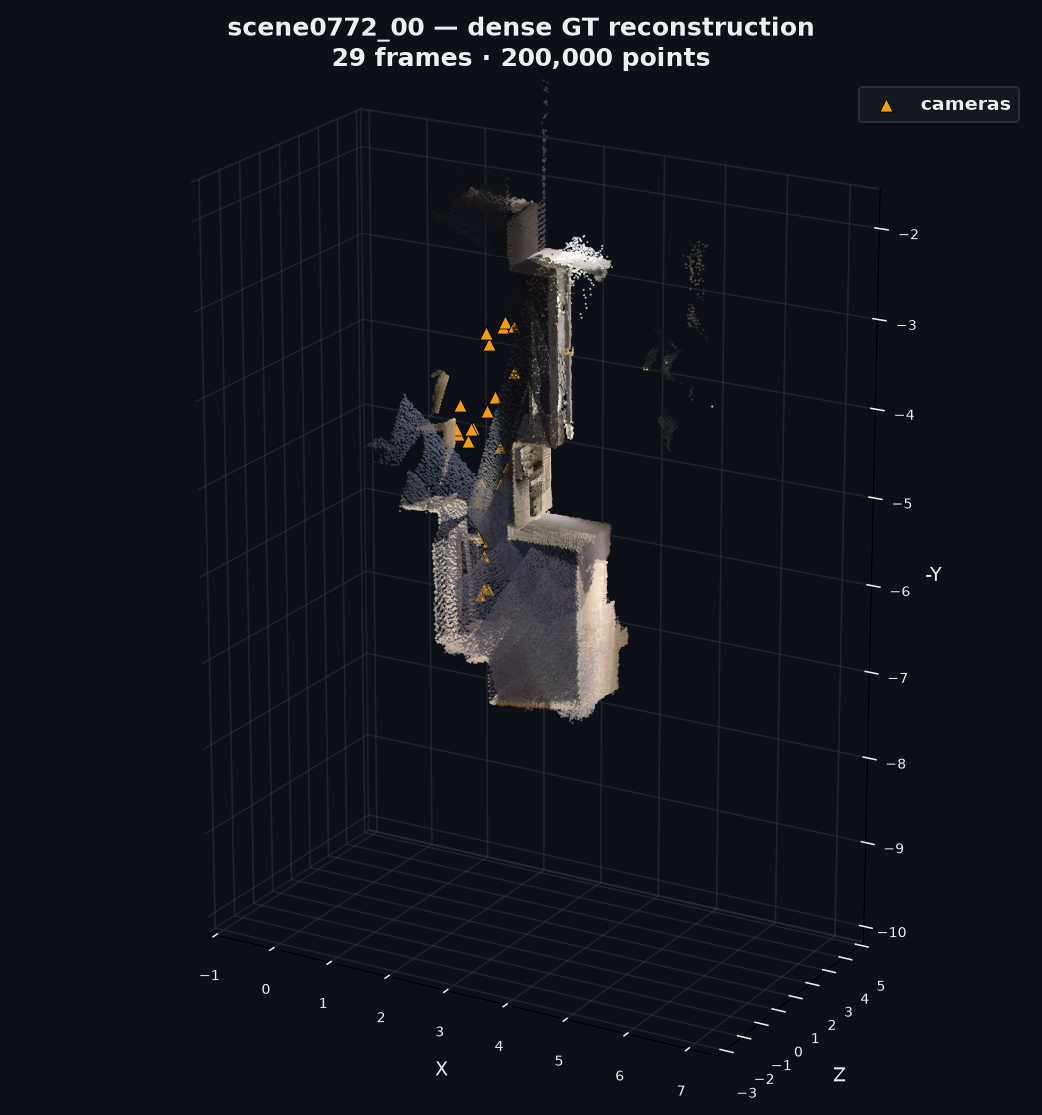
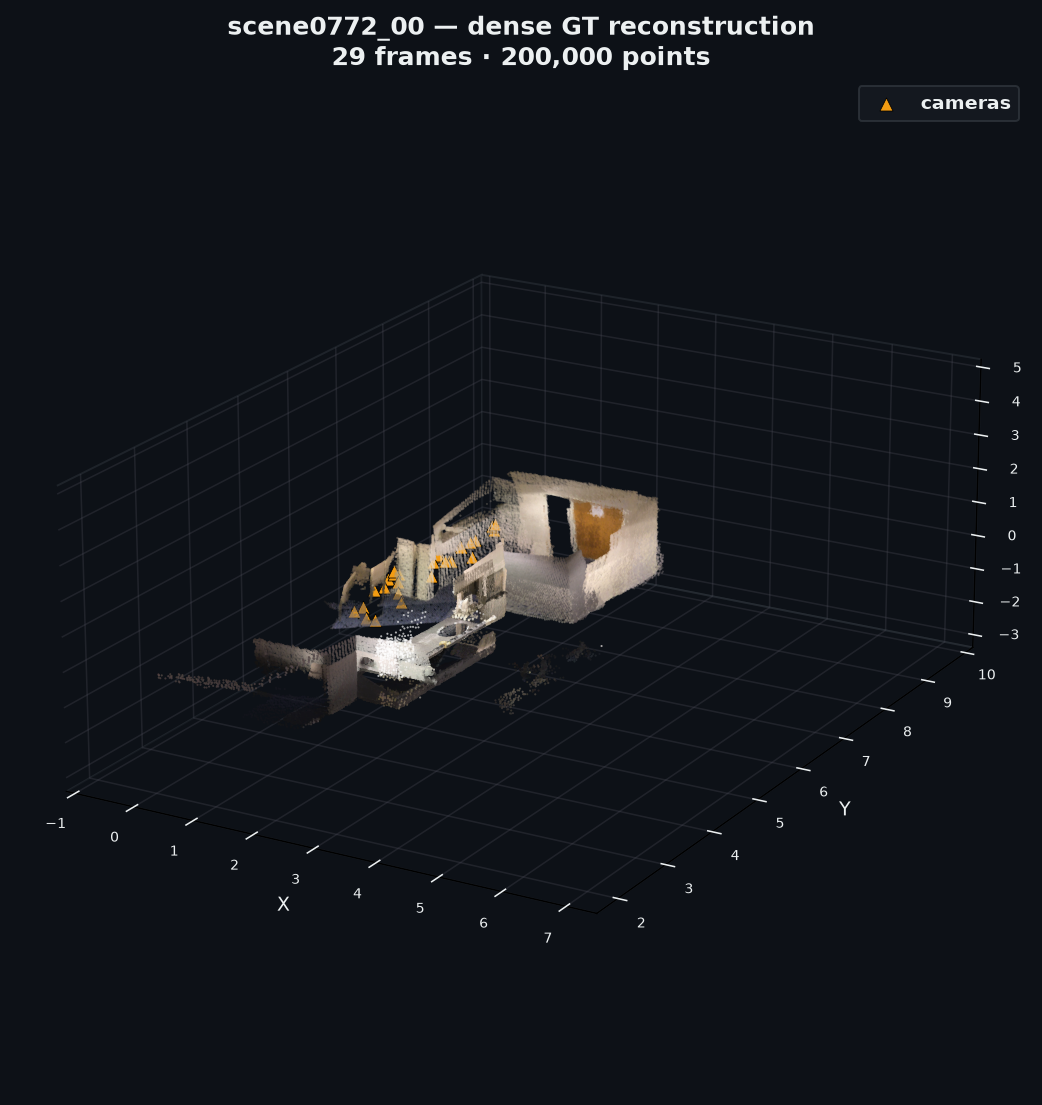
Fix scene-episode context overflow (the Phase-2 rollout blocker)
Long scene episodes (8 image thumbnails + ~40 tool-call turns) exceeded
vLLM's 8192 max_model_len, so every scene rollout failed with 400
"input exceeds context" and earned reward=-0.5.

- Bump phase2_scene.slurm --max-model-len 8192 -> 32768 (Qwen3.5-2B supports
  262k positions; KV headroom on 48GB L40S is fine)
- Add _trim_scene_context + _estimate_context_tokens in scene_episode.py:
  drops the oldest assistant/observation turns once the rolling prompt nears
  SCENE_CONTEXT_BUDGET, keeping system + initial user + recent turns.

34 scene-episode tests still pass.

diff --git a/src/agentic_sfm/rl/scene_episode.py b/src/agentic_sfm/rl/scene_episode.py
@@ -337,7 +337,10 @@ def run_scene_episode(
         if terminated or num_tool_calls >= max_tool_calls:
             break
 
-        # Generate via vLLM
+        # Trim the rolling context to stay under the model's context budget
+        # before generating (long scenes + many tool calls would otherwise
+        # overflow vLLM's max_model_len and the whole episode would fail).
+        _trim_scene_context(ep)
         try:
             response = agent._generate_turn(ep.messages, ep.images)
         except Exception as e:
@@ -428,6 +431,48 @@ def run_scene_episode(
         f"reward={ep.reward:.3f}, registered={ep.recon_result.get('num_registered', 0)}"
     )
     return ep
+
+
+# Conservative context budget for scene rollouts. The model supports ~262k
+# positions but vLLM is launched with a smaller --max-model-len; we keep the
+# rolling conversation well under it so long episodes never hit the 400
+# "input exceeds max context length" errors seen in early Phase-2 runs.
+SCENE_CONTEXT_BUDGET = 24000  # tokens (chars/4 estimate + image cost)
+_IMG_TOKEN_COST = 300         # rough token cost per image/thumbnail
+
+
+def _estimate_context_tokens(messages: list[dict[str, Any]], num_images: int) -> int:
+    """Rough token estimate: ~4 chars/token of text + per-image cost."""
+    chars = 0
+    for m in messages:
+        c = m.get("content")
+        if isinstance(c, str):
+            chars += len(c)
+        elif isinstance(c, list):
+            for part in c:
+                if isinstance(part, dict) and part.get("type") == "text":
+                    chars += len(str(part.get("text", "")))
+    return chars // 4 + num_images * _IMG_TOKEN_COST
+
+
+def _trim_scene_context(ep: Any, max_tokens: int = SCENE_CONTEXT_BUDGET) -> None:
+    """Drop the oldest assistant/observation turns when over the token budget.
+
+    Keeps ``messages[0]`` (system) and ``messages[1]`` (initial user with the
+    scene thumbnails), then retains only the most recent turns so the rolling
+    prompt stays under ``max_tokens``. Mutates ``ep.messages``; also bounds
+    ``ep.images`` to the thumbnail count actually referenced.
+    """
+    num_images = len(getattr(ep, "images", []) or [])
+    if _estimate_context_tokens(ep.messages, num_images) <= max_tokens:
+        return
+    # messages[0]=system, [1]=user+images; tail = [assistant, user-obs] turns.
+    head = ep.messages[:2]
+    tail = ep.messages[2:]
+    # Drop oldest turns until under budget (each tail element is one message).
+    while tail and _estimate_context_tokens(head + tail, num_images) > max_tokens:
+        tail = tail[1:]
+    ep.messages = head + tail
 
 
 def run_scene_oracle_episode(

diff --git a/src/agentic_sfm/eval/viz.py b/src/agentic_sfm/eval/viz.py
@@ -425,13 +425,17 @@ def render_gt_pointcloud(
     ax = fig.add_subplot(111, projection="3d")
     ax.set_facecolor(FIG_BG)
 
+    # ScanNet world frames are Z-up (camera heights ~1.1-1.7 m in Z), so the
+    # axes map straight through: (X, Y, Z) <- (x, y, z) keeps the room
+    # upright — unlike ``render_point_cloud`` which remaps for the
+    # COLMAP/Y-up convention.
     if len(pts):
-        ax.scatter(pts[:, 0], pts[:, 2], -pts[:, 1],
+        ax.scatter(pts[:, 0], pts[:, 1], pts[:, 2],
                    c=np.clip(cols, 0, 1), s=1.2, alpha=0.9,
                    linewidths=0, depthshade=True)
 
     if len(cam_centers):
-        ax.scatter(cam_centers[:, 0], cam_centers[:, 2], -cam_centers[:, 1],
+        ax.scatter(cam_centers[:, 0], cam_centers[:, 1], cam_centers[:, 2],
                    c=C_CAMERA, s=45, marker="^", edgecolors="k",
                    linewidths=0.4, label="cameras", depthshade=False)
 
@@ -445,8 +449,8 @@ def render_gt_pointcloud(
         mid = np.median(pts, axis=0)
         rng = np.ptp(pts, axis=0).max()
         ax.set_xlim(mid[0] - rng * 0.6, mid[0] + rng * 0.6)
-        ax.set_ylim(mid[2] - rng * 0.6, mid[2] + rng * 0.6)
-        ax.set_zlim(-mid[1] - rng * 0.6, -mid[1] + rng * 0.6)
+        ax.set_ylim(mid[1] - rng * 0.6, mid[1] + rng * 0.6)
+        ax.set_zlim(mid[2] - rng * 0.6, mid[2] + rng * 0.6)
     ax.view_init(elev=elev, azim=azim)
 
     for axis in (ax.xaxis, ax.yaxis, ax.zaxis):
@@ -456,13 +460,13 @@ def render_gt_pointcloud(
         axis._axinfo["grid"]["color"] = (0.3, 0.3, 0.35, 0.3)
     ax.tick_params(colors=C_TEXT, labelsize=7)
     ax.set_xlabel("X", color=C_TEXT)
-    ax.set_ylabel("Z", color=C_TEXT)
-    ax.set_zlabel("-Y", color=C_TEXT)
+    ax.set_ylabel("Y", color=C_TEXT)
+    ax.set_zlabel("Z", color=C_TEXT)
     try:
         if len(pts):
             ax.set_box_aspect((np.ptp(pts[:, 0]) + 1e-6,
-                               np.ptp(pts[:, 2]) + 1e-6,
-                               np.ptp(pts[:, 1]) + 1e-6))
+                               np.ptp(pts[:, 1]) + 1e-6,
+                               np.ptp(pts[:, 2]) + 1e-6))
     except Exception:
         pass
     if len(cam_centers):
